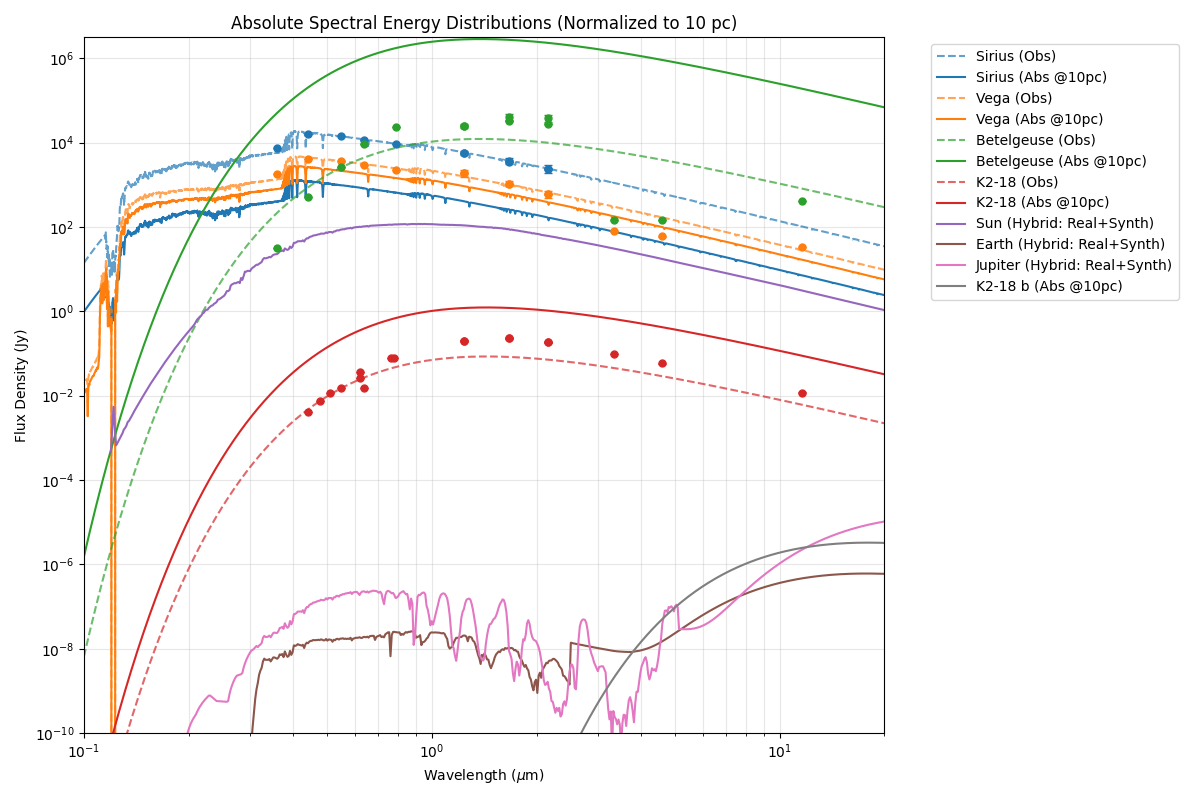
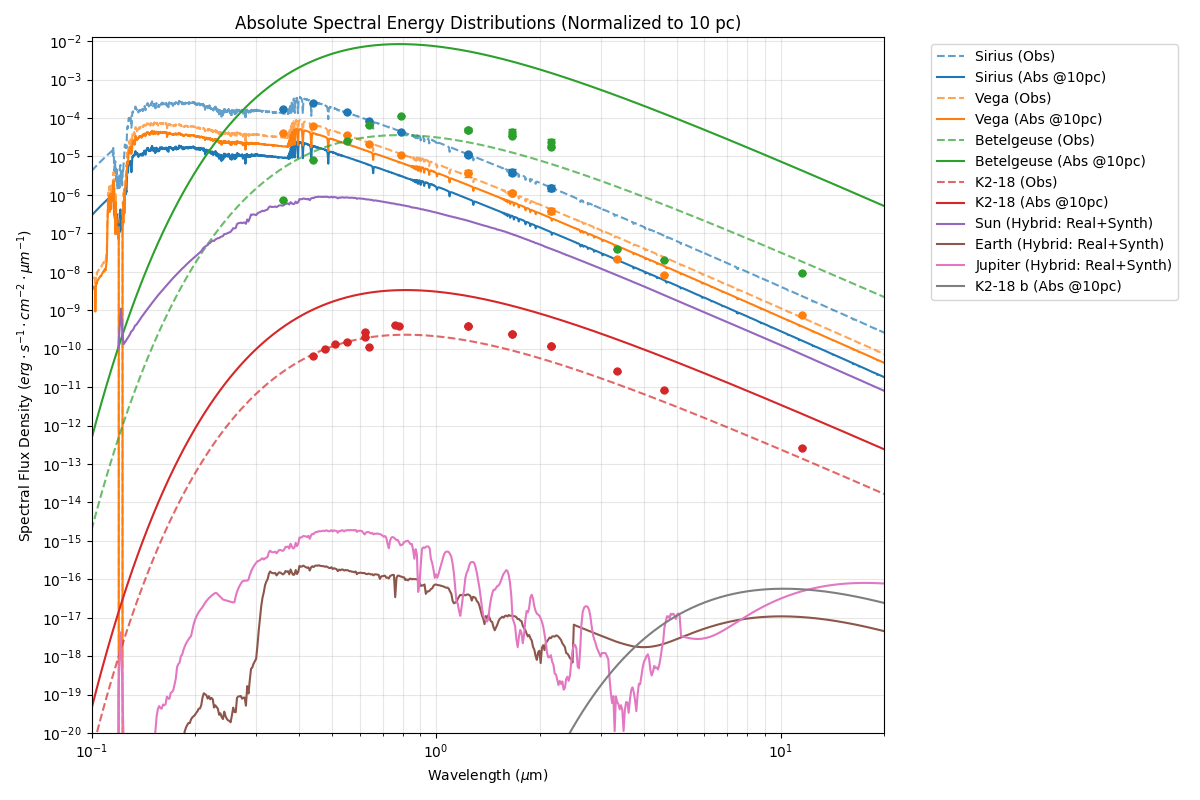
SED unit conversion

diff --git a/examples/03_sed_query.py b/examples/03_sed_query.py
@@ -25,6 +25,10 @@ from helios.io.external_query.exoplanets.query_all import get_exoplanet_properti
 
 def main():
     
+    # --- CONFIGURATION ---
+    PLOT_IN_FLAM = True # If True, plot in erg/s/cm^2/um. If False, plot in Jansky.
+    # ---------------------
+
     # Define targets
     # (Name, Type) tuples could be useful, or just distinct lists.
     targets = [
@@ -46,6 +50,14 @@ def main():
     # Import Exoplanet Spectrum Generator for Runtime Calculation
     from helios.io.external_query.exoplanets.spectrum import generate_exoplanet_spectrum
     
+    # Unit Setup
+    if PLOT_IN_FLAM:
+        target_unit = u.erg / (u.cm**2 * u.s * u.um)
+        ylabel = r'Spectral Flux Density ($erg \cdot s^{-1} \cdot cm^{-2} \cdot \mu m^{-1}$)'
+    else:
+        target_unit = u.Jy
+        ylabel = 'Flux Density (Jy)'
+
     global_max_flux = 0.0
     
     for name, obj_type in targets:
@@ -63,31 +75,51 @@ def main():
                 
                 # 1. Classical SED (Observed) -> Dashed
                 if len(sed.get('wavelength', [])) > 0:
-                    l, = plt.loglog(sed['wavelength'], sed['flux'], '--', label=f"{name} (Obs)", alpha=0.7)
+                    wl = sed['wavelength']
+                    flux = sed['flux']
+                    
+                    # Convert Unit
+                    if PLOT_IN_FLAM:
+                        flux = flux.to(target_unit, equivalencies=u.spectral_density(wl))
+                    else:
+                        flux = flux.to(target_unit)
+
+                    l, = plt.loglog(wl, flux, '--', label=f"{name} (Obs)", alpha=0.7)
                     color = l.get_color()
                     
                     # 2. Absolute SED (10pc) -> Continuous
                     # Calculate if not present
                     if dist is not None:
                         # Scaling factor: (D / 10pc)^2
-                        # Flux_10pc = Flux_obs * (D / 10pc)^2
-                        # Wait. Flux goes as 1/r^2. 
-                        # L = 4*pi*d^2 * F_obs. 
-                        # F_10pc = L / (4*pi*10pc^2) = F_obs * (d / 10pc)^2. Correct.
+                        # F_10pc = F_obs * (d / 10pc)^2. Correct.
                         factor = ((dist / (10.0 * u.pc))**2).decompose()
-                        flux_10pc = sed['flux'] * factor
+                        flux_10pc = flux * factor # Same unit as flux (already converted)
                         
                         current_max = np.max(flux_10pc)
                         if hasattr(current_max, 'value'): current_max = current_max.value
                         if current_max > global_max_flux: global_max_flux = current_max
                         
-                        plt.loglog(sed['wavelength'], flux_10pc, '-', color=color, label=f"{name} (Abs @10pc)")
+                        plt.loglog(wl, flux_10pc, '-', color=color, label=f"{name} (Abs @10pc)")
                         
                 # 3. Photometry -> Markers
                 if len(photo.get('wavelength', [])) > 0:
+                    wl_phot = photo['wavelength']
+                    flux_phot = photo['flux']
+                    err_phot = photo.get('flux_error')
+                    
+                    # Convert Photometry Units
+                    if PLOT_IN_FLAM:
+                        flux_phot = flux_phot.to(target_unit, equivalencies=u.spectral_density(wl_phot))
+                        if err_phot is not None:
+                             err_phot = err_phot.to(target_unit, equivalencies=u.spectral_density(wl_phot))
+                    else:
+                        flux_phot = flux_phot.to(target_unit)
+                        if err_phot is not None:
+                             err_phot = err_phot.to(target_unit)
+
                     col = color if color else 'red'
-                    plt.errorbar(photo['wavelength'], photo['flux'], 
-                                 yerr=photo.get('flux_error'), 
+                    plt.errorbar(wl_phot, flux_phot, 
+                                 yerr=err_phot, 
                                  fmt='o', color=col, ecolor=col, markersize=5, capsize=3, label='_nolegend_')
 
             elif obj_type == "SolarSystem":
@@ -153,7 +185,7 @@ def main():
                      
                      if albedo is None: albedo = 0.3 # Default
                      
-                     # Simulate
+                     # Simulate (Returns Jy usually)
                      # We use dist_metric (10pc) for the output flux level
                      flux_total, flux_refl, flux_therm = simulate_lit_planet(
                          wl_grid, sun_spec, dist_sun, radius, dist_metric, float(albedo), teff
@@ -183,6 +215,12 @@ def main():
                          final_flux = flux_total
                          label_txt = f"{name} (Synthetic)"
                          
+                     # Convert Final Flux to Target Unit
+                     if PLOT_IN_FLAM:
+                         final_flux = final_flux.to(target_unit, equivalencies=u.spectral_density(wl_grid))
+                     else:
+                         final_flux = final_flux.to(target_unit)
+
                      current_max = np.max(final_flux)
                      if hasattr(current_max, 'value'): current_max = current_max.value
                      if current_max > global_max_flux: global_max_flux = current_max
@@ -205,14 +243,6 @@ def main():
                     # We need a wavelength grid. Let's use 0.1 to 30 um
                     wl_grid = np.logspace(np.log10(0.1), np.log10(30.0), 500) * u.um
                     
-                    # We need to pass the physics dict to the generator
-                    # But wait, generate_exoplanet_spectrum might calculate Total Flux (Reflected + Thermal).
-                    # We need to check if it returns Observed or Surface flux.
-                    # Usually it returns Spectral Flux Density.
-                    
-                    # Let's inspect generate_exoplanet_spectrum signature or re-implement simple BB here.
-                    # Re-implementing safer to control distance.
-                    
                     # Thermal Emission (Blackbody)
                     T_eq = data['physics'].get('temperature_eq')
                     R_pl = data['physics'].get('radius')
@@ -227,6 +257,12 @@ def main():
                         solid_angle = (np.pi * (R_pl / dist_10pc)**2).decompose() * u.sr
                         flux_10pc = (flux_surface * solid_angle).to(u.Jy, equivalencies=u.spectral_density(wl_grid))
                         
+                        # Convert Unit
+                        if PLOT_IN_FLAM:
+                            flux_10pc = flux_10pc.to(target_unit, equivalencies=u.spectral_density(wl_grid))
+                        else:
+                            flux_10pc = flux_10pc.to(target_unit)
+                        
                         current_max = np.max(flux_10pc)
                         if hasattr(current_max, 'value'): current_max = current_max.value
                         if current_max > global_max_flux: global_max_flux = current_max
@@ -240,16 +276,24 @@ def main():
             print(f"Error processing {name}: {e}")
 
     plt.xlabel(r'Wavelength ($\mu$m)')
-    plt.ylabel('Flux Density (Jy)')
+    plt.ylabel(ylabel)
     plt.title('Absolute Spectral Energy Distributions (Normalized to 10 pc)')
+    plt.legend(bbox_to_anchor=(1.05, 1), loc='upper left')
     plt.legend(bbox_to_anchor=(1.05, 1), loc='upper left')
     plt.grid(True, which="both", ls="-", alpha=0.3)
     
+    # Configure Ticks to show every power of 10 on Y-axis
+    import matplotlib.ticker as ticker
+    ax = plt.gca()
+    ax.yaxis.set_major_locator(ticker.LogLocator(base=10.0, numticks=100))
+    # Ensure minor ticks are also visible if needed
+    ax.yaxis.set_minor_locator(ticker.LogLocator(base=10.0, subs='auto', numticks=100))
+    
     # Set limits
     if global_max_flux > 0:
-        plt.ylim(bottom=1e-10, top=global_max_flux * 1.1)
+        plt.ylim(bottom=1e-20 if PLOT_IN_FLAM else 1e-10, top=global_max_flux * 1.5)
     else:
-        plt.ylim(bottom=1e-10)
+        plt.ylim(bottom=1e-20 if PLOT_IN_FLAM else 1e-10)
     
     # Set X-limits (Restored to 20um as requested)
     plt.xlim(0.1, 20.0)
